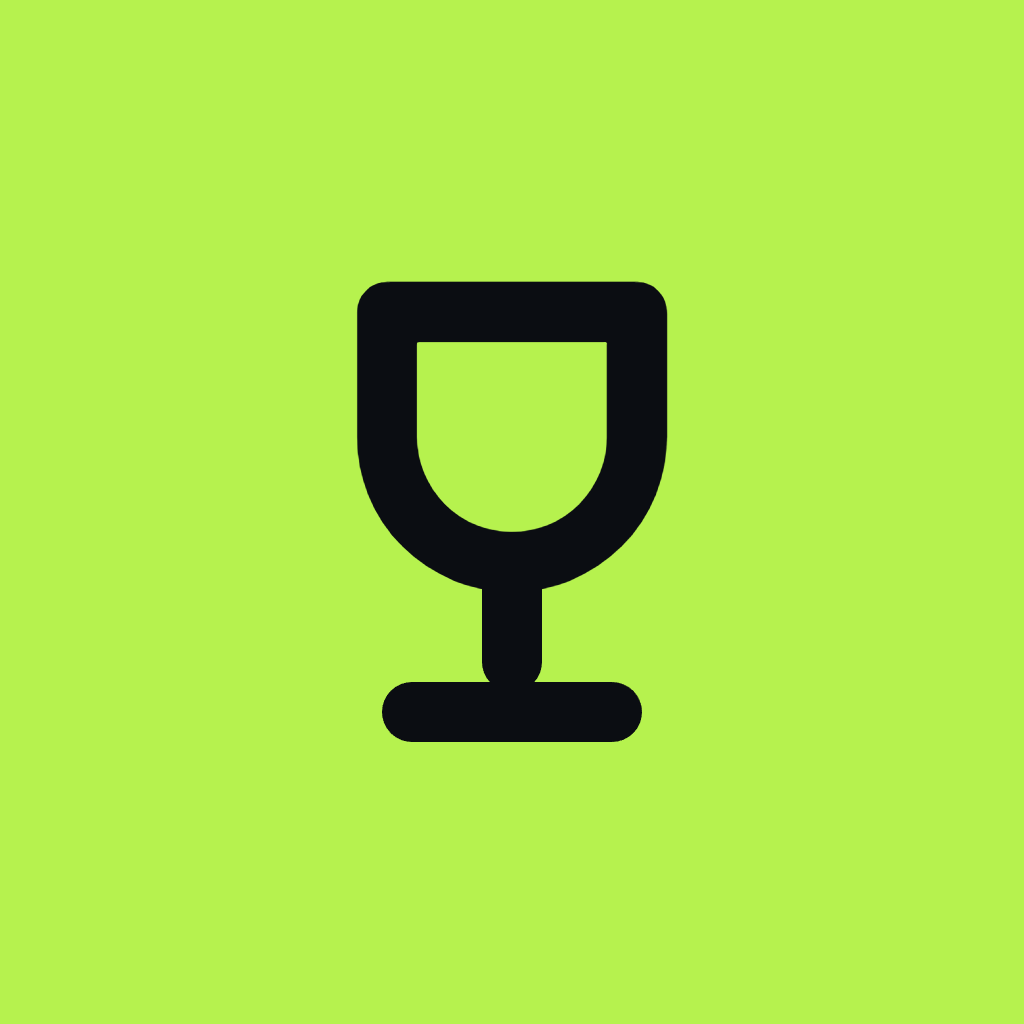
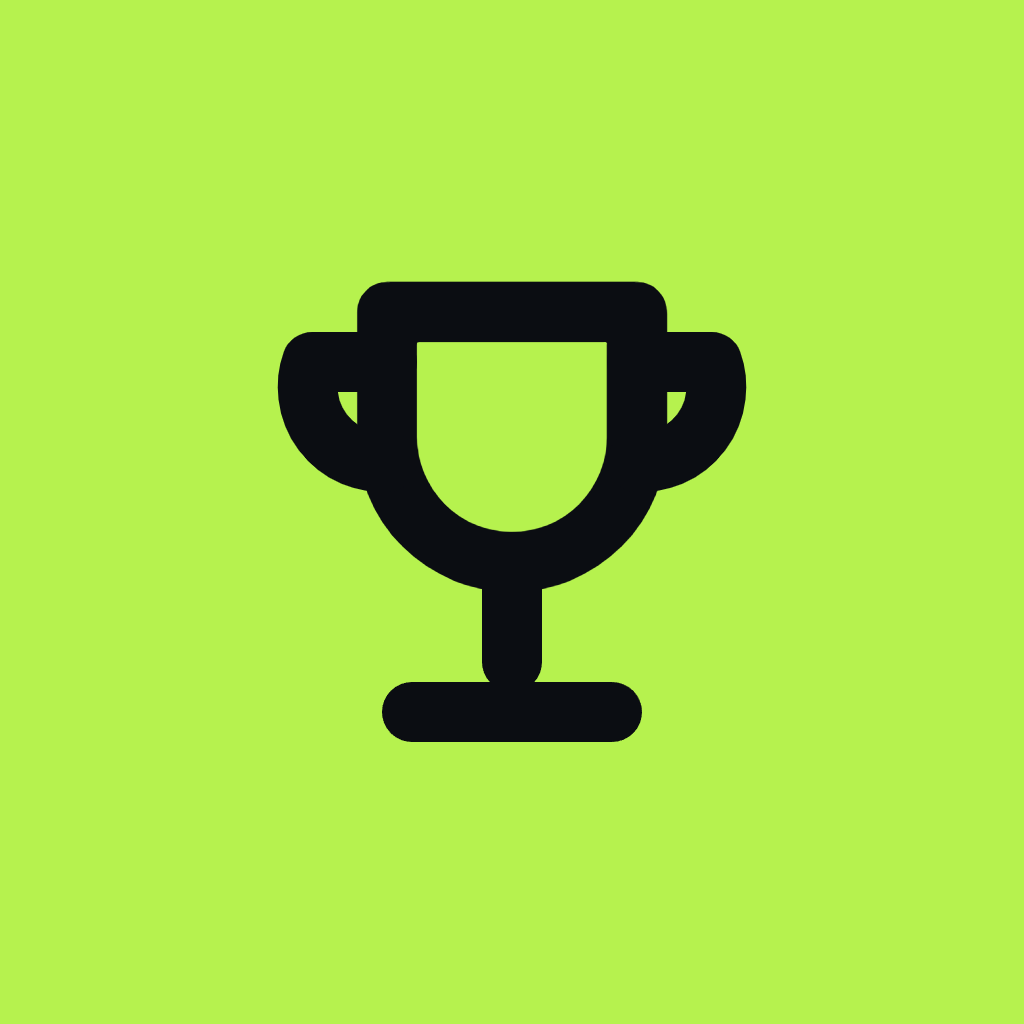
Add handles to the trophy mark so it reads as a cup, not a goblet
Regenerate favicon/icon/apple-icon/manifest icons and the project
avatar from the same handled trophy shape already used on the login
page, and bring the header logo in sync with it.

Changed region(s): [[0.25, 0.3125, 0.375, 0.5], [0.625, 0.3125, 0.75, 0.5]]

diff --git a/app/layout.tsx b/app/layout.tsx
@@ -52,6 +52,7 @@ export default async function RootLayout({
             <span className="brand-mark">
               <svg width="13" height="13" viewBox="0 0 24 24" fill="none" stroke="#0b0d12" strokeWidth="2.6" strokeLinecap="round">
                 <path d="M7 4h10v5a5 5 0 0 1-10 0V4z" />
+                <path d="M7 6H4a3 3 0 0 0 3 4M17 6h3a3 3 0 0 1-3 4" />
                 <path d="M12 14v4M8 20h8" />
               </svg>
             </span>
